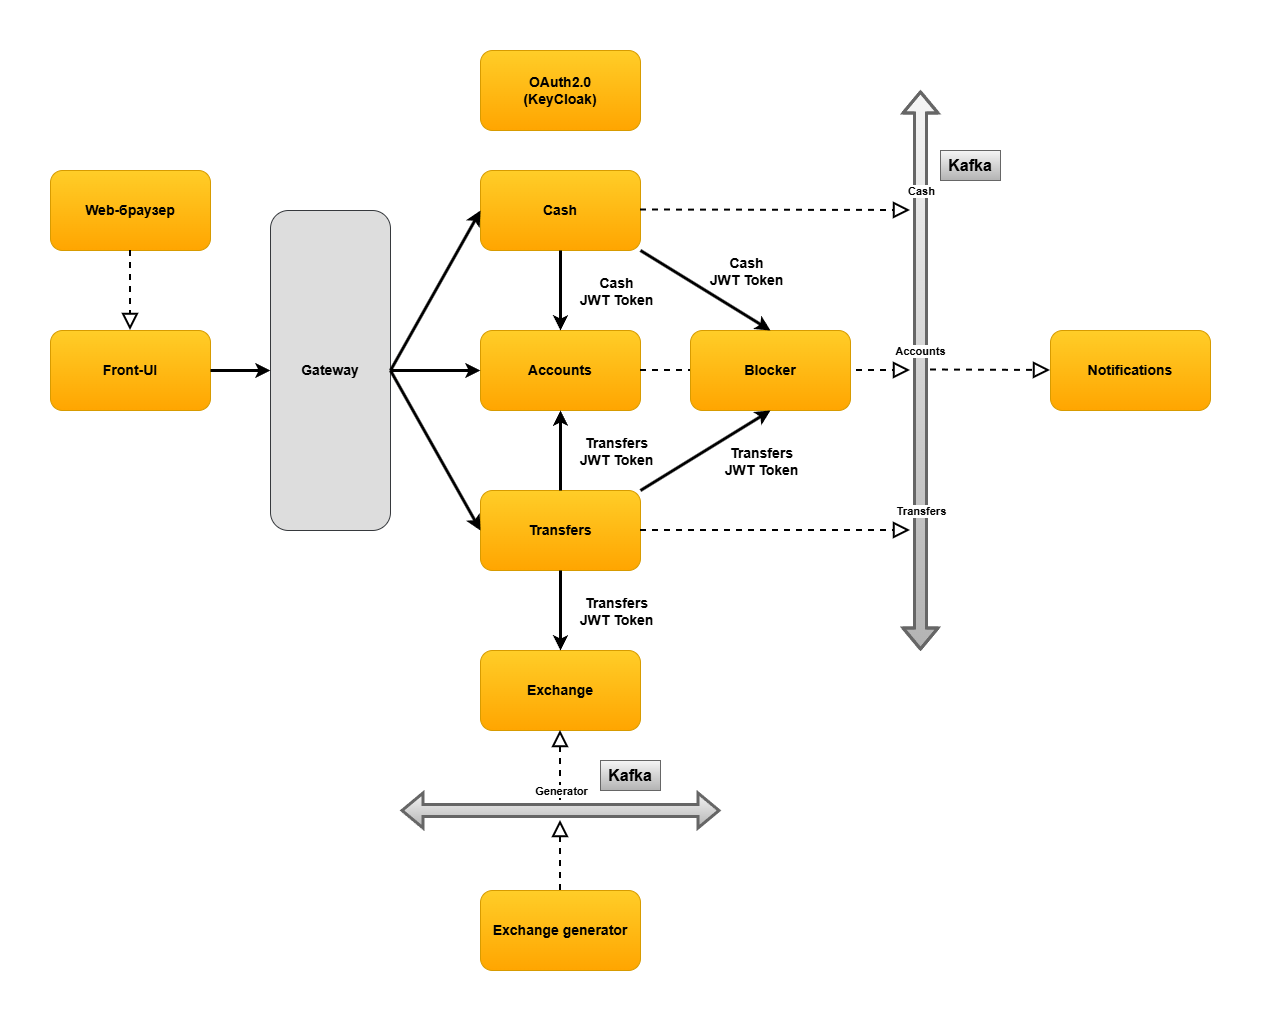
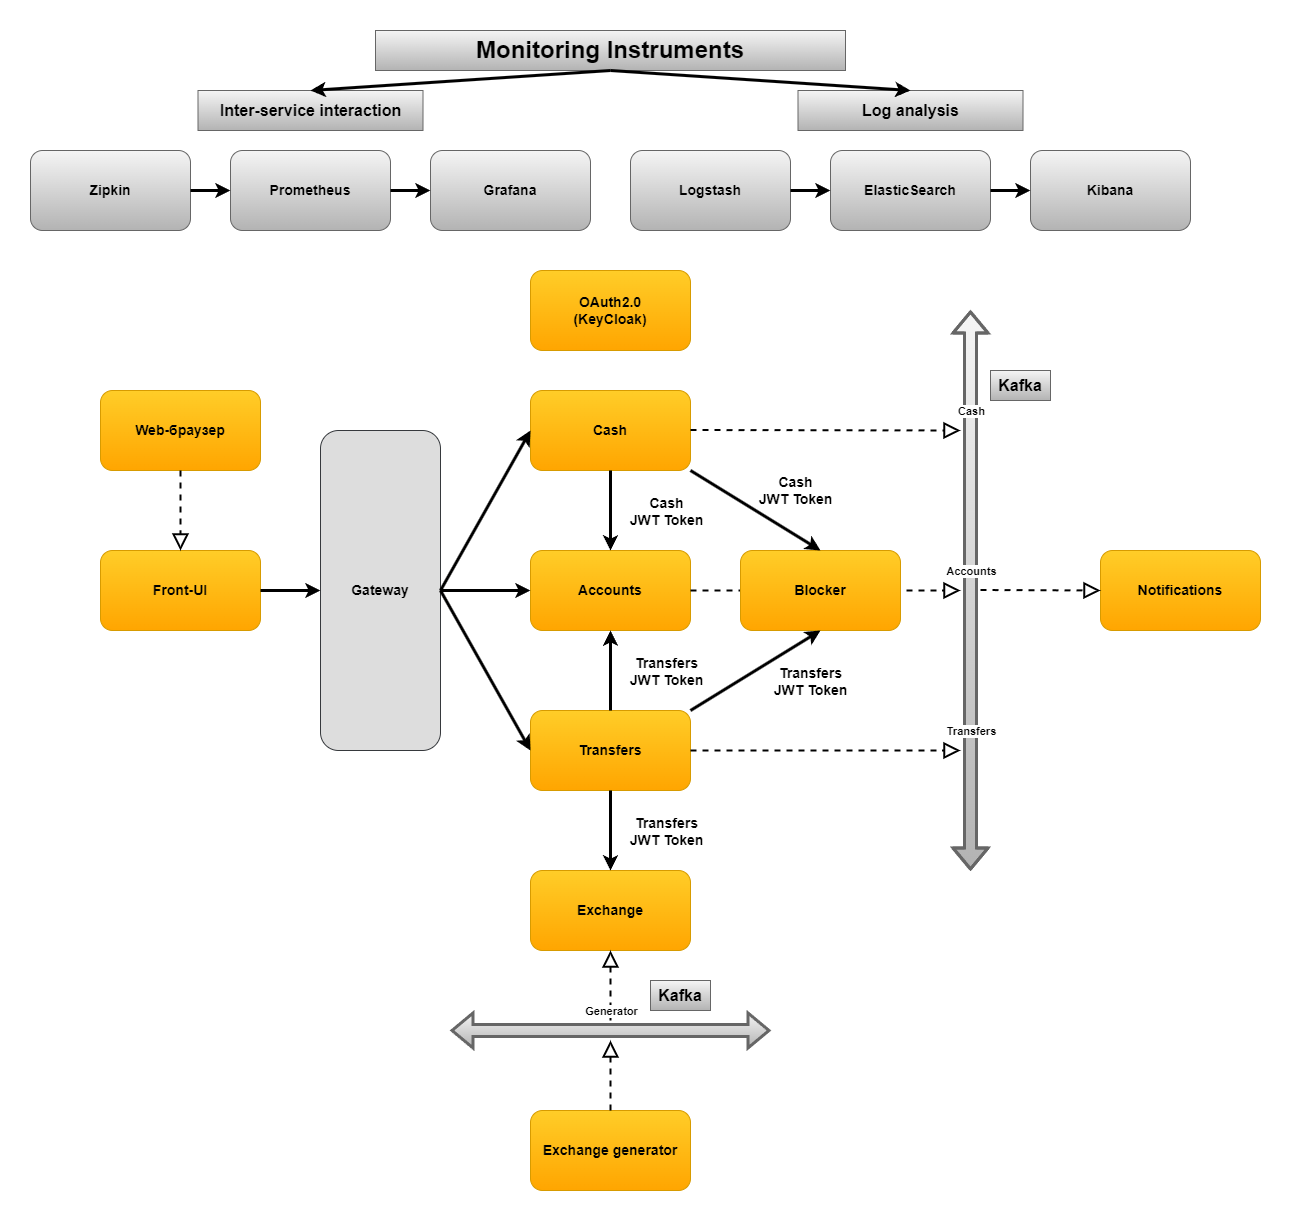
monitoring-feature: добавлен README.md

Changed region(s): [[0.0, 0.0304, 0.9897, 1.0], [0.3402, 0.2429, 0.3711, 0.2733]]

diff --git a/README.md b/README.md
@@ -7,10 +7,12 @@
 </p>
 
 # 🏦 Микросервисное приложение Best Bank
-Это микросервисное веб-приложение — банк, реализованный на Java 21 с использованием Spring Framework версии 6.1 и выше (со Spring Boot), при написании которого использовались следующие фреймворки: WebFlux, Security, Cloud, R2DBC и др. Проект управляется с помощью системы сборки Gradle. Применение вышеуказанных фреймворков позволило реализовать полностью неблокирующее взаимодействие с базами данных и построить высокопроизводительное масштабируемое веб-приложение, предусматривающее аутентификацию и ограничение доступа к API (логин/пароль). Между рядом микросервисов настроено взаимодействие через Kafka. Также в проекте предусмотрено развёртывание в K8s с применением Jenkins и Helm-chart'ов. Обо всём далее.
+Это микросервисное веб-приложение — банк, реализованный на Java 21 с использованием Spring Framework версии 6.1 и выше (со Spring Boot), при написании которого использовались следующие фреймворки: WebFlux, Security, Cloud, R2DBC и др. Проект управляется с помощью системы сборки Gradle. Применение вышеуказанных фреймворков позволило реализовать полностью неблокирующее взаимодействие с базами данных и построить высокопроизводительное масштабируемое веб-приложение, предусматривающее аутентификацию и ограничение доступа к API (логин/пароль). Между рядом микросервисов настроено взаимодействие через Kafka. Также в проекте предусмотрено развёртывание в K8s с применением Jenkins и Helm-chart'ов.
+
+В приложение были добавлены инструменты мониторинга, трейсинга и обработка логов с помощью ELK-стека. Обо всём далее.
 
 ## 📝 Описание
-Само приложение состоит из семи "внутренних" модулей и 1 "внешнего":
+Само приложение состоит из восьми "внутренних" модулей и ряда "внешних":
 - 📝 accounts-service;
 - 💵 cash-service;
 - 💸 transfers-service;
@@ -22,7 +24,13 @@
 а также "внешних" вспомогательных модулей:
 - 🔐 keycloak - модуль аутентификации между микросервисами (OAuth2 протокол разделяет роли клиента, владельца ресурса, сервера авторизации и сервера ресурсов);
 - 🗃 kafka - модуль брокера сообщений, позволяющего настроить асинхронное взаимодействие между микросервисами;
-- ✨ kafka-ui - веб-интерфейс с открытым исходным кодом **(provectuslabs/kafka-ui)** для управления и мониторинга кластеров Apache Kafka.
+- ✨ kafka-ui - веб-интерфейс с открытым исходным кодом **(provectuslabs/kafka-ui)** для управления и мониторинга кластеров Apache Kafka;
+- 🔍 elasticsearch - это распределённая поисковая и аналитическая система. Предназначена для хранения, поиска и анализа больших объёмов данных в реальном времени;
+- 📊 grafana - открытая платформа для сбора, мониторинга и визуализации данных, ориентированная на данные систем ИТ-мониторинга.
+- 📋 kibana - веб-платформа для визуализации и управления данными, хранящимися в Elasticsearch (системе поиска и анализа данных).
+- 🚛 logstash - инструмент для сбора, обработки и трансформации данных из журналов в разных системах. Является частью экосистемы Elastic Stack (ELK).
+- ⚡ prometheus - система мониторинга и оповещения с открытым исходным кодом, которая в реальном времени собирает и анализирует метрики работы приложений и серверов;
+- 🕸 zipkin - система трейсинга и мониторинга запросов, позволяющая собирать данные о времени выполнения сервисов в распределённых системах
 
 **Accounts-service**
 Сервис, являющийся основным для приложения. В нём содержится база данных по счетам и учётным записям пользователей. Также он отвечает за логику проверки credentials, поступающих от front-ui при логине, проверка баланса, и т.д. Любое изменение с аккаунтом также находится в его зоне ответственности. В приложении настроен на порту 8081.
@@ -48,6 +56,7 @@
 - при изменении данных аккаунта;
 - при изменении пароля;
 - при операциях с наличными;
+- при открытии/закрытии счёта;
 - при переводе средств.
 В приложении настроен на порту 8084.
 
@@ -555,7 +564,7 @@ Contract.make {
 
 **`image.repository`**	Имя образа Docker.
 
-**`image.tag`**	Тег образа (у тебя latest).
+**`image.tag`**	Тег образа.
 
 **`service.port`**	Внутренний порт Kubernetes-сервиса.
 
@@ -610,3 +619,104 @@ Contract.make {
 **`resources.limits.cpu: 1000m`** - Максимальный CPU (1 core)
 
 **`resources.limits.memory: 1Gi`** - Максимальная RAM
+
+
+## Системы мониторинга
+### Zipkin
+В каждом микросервисе включён трейсинг: сервис создаёт traceId и spanId для каждого запроса. Данные метки добавляются в заголовки запросов. Благодаря им zipkin хранит эти спаны и строит цепочку запроса через все сервисы.
+Что видно в Zipkin:
+- история запроса по всем сервисам;
+- длительность каждого вызова (span);
+- в каком месте были ошибки или задержки исполнения запросов.
+
+Пример логов с traceId и spanId:
+```java
+2026-01-21 - 18:35:55.778 (Z)  INFO 1 ---> [69711c8b66a795ec92a1252c7976f701/92a1252c7976f701] [kafka-producer-network-thread | producer-1] c.b.service.NotificationsServiceImpl : Уведомление успешно отправлено на email: ***, topic: transfers-notifications, offset: 0
+2026-01-21 - 18:35:55.779 (Z)  INFO 1 ---> [69711c8b66a795ec92a1252c7976f701/92a1252c7976f701] [kafka-producer-network-thread | producer-1] c.bank.service.TransfersServiceImpl : Перевод с ID 1 на ID 2 успешно сохранён.
+```
+
+Так выглядит Dependencies-раздел при использовании функционала приложения
+<p align="center">
+
+  <img src="https://github.com/MironovNikita/BestBank/blob/main/images/zipkin-management.png">
+
+</p>
+
+### Prometheus
+Все микросервисы экспортируют метрики через /actuator/prometheus (Spring Boot + Micrometer). Prometheus скрейпит (запрашивает) эти метрики раз в определённое время. Prometheus хранит данные в TSDB (time series database).
+
+Какие метрики отслеживаются в Prometheus:
+- QPS, latency, ошибки по каждому сервису;
+- использование ресурсов JVM, GC, CPU, памяти;
+- метрики Kafka, PostgreSQL и т.д.
+
+Также отслеживаются кастомные метрики:
+- количество успешных/неуспешных логинов пользователей;
+- количество успешных/неуспешных (заблокированных) попыток перевода денег как между своими счетами, так и между счетами различных пользователей;
+- количество успешных/неуспешных (заблокированных) попыток операций с наличными;
+- количество успешных/неуспешных уведомлений пользователей через email;
+- количество успешных/неуспешных обновлений курсов валют.
+
+### Grafana
+Grafana подключается к Prometheus как data source. Дашборды были настроены по указанным выше метрикам: дэшборд безопасности и дэшборд бизнес-метрик приложения.
+
+Дэшборд безопасности приложения: 
+<p align="center">
+
+  <img src="https://github.com/MironovNikita/BestBank/blob/main/images/metrics-security.png">
+
+</p>
+
+Дэшборд финансовых метрик: 
+<p align="center">
+
+  <img src="https://github.com/MironovNikita/BestBank/blob/main/images/metrics-financial.png">
+
+</p>
+
+### Logstash
+Сервисы пишут логи через Logback → Kafka → Logstash. Сам logstash использует конфигурацию logstash.conf:
+- input: откуда читать логи (Kafka);
+- filter: осуществляет преобразование логов - добавление тегов: уровня логов, индексация по времени;
+- output: куда отправлять логи для сохранения - Elasticsearch.
+
+Logstash может обогащать логи метаданными (traceId, spanId, service name).
+
+### Elasticsearch
+Logstash или другие агенты (например, Kafka) отправляют логи в Elasticsearch. Elasticsearch хранит их в индексах (например, bestbank-logs-2026.01.21 - настраивается в конфиге). Метаданные логов (уровень, сервис, traceId, spanId) индексируются для быстрого поиска. По итогу Elasticsearch позволяет собрать все логи сервисов в одном месте, сортируя их по по времени, уровню (INFO/DEBUG/ERROR), сервису, traceId и т.д.
+
+### Kibana
+Kibana подключается к Elasticsearch, создаёт индексы и дашборды для логов (bestbank-logs-*). Позволяет:
+- фильтровать логи по сервису, уровню, traceId и т.д;
+- смотреть логи в реальном времени;
+- создавать визуализации, графики частоты ошибок, распределения по уровню INFO/DEBUG/ERROR.
+
+После запуска helm-чарта в kibana необходимо:
+1) Создать Data View
+2) Далее переходим по Stack Management → Data Views → Create data view
+Заполняем:
+- Name: bestbank-logs
+- Index pattern: bestbank-logs-*
+- Time field: @timestamp
+3) Сохраняем
+4) Чтобы посмотреть логи, переходим в Analytics → Discover
+Теперь можно фильтровать логи по метрикам, указанным ниже:
+
+<p align="center">
+
+  <img src="https://github.com/MironovNikita/BestBank/blob/main/images/kibana-services.png">
+
+</p>
+----
+<p align="center">
+
+  <img src="https://github.com/MironovNikita/BestBank/blob/main/images/kibana-levels.png">
+
+</p>
+
+Сами логи выглядят следующим образом:
+<p align="center">
+
+  <img src="https://github.com/MironovNikita/BestBank/blob/main/images/kibana.png">
+
+</p>
